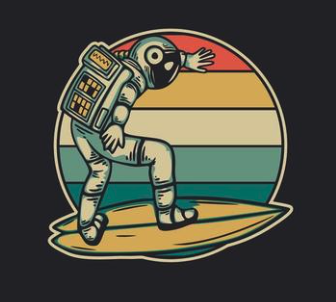
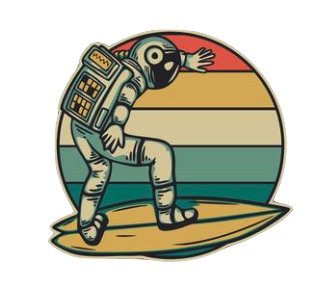
stylized + adjusted color

diff --git a/src/components/pages/Home.js b/src/components/pages/Home.js
@@ -11,6 +11,18 @@ export default function Home() {
       <p>My name is Xander.</p>
       <p>I am a Full Stack Developer.</p>
       <img src= {spacesurfer} alt="spaceman surfing"/>
+
+      <p>Here are links to some of my gitHub projects:</p>
+      <div class="flex">
+        <div class="app-card"> 1 xnd0/Team_Card_Generator_10.3 </div>
+        <div class="app-card"> 2 xnd0/FigJam </div>
+        <div class="app-card"> 3 xnd0/Find-Your-Pour </div>
+        <div class="app-card"> 4 xnd0/No-Rona_App</div>
+        <div class="app-card"> 5 https://github.com/xnd0/Tech_Showdown_21b</div>
+        <div class="app-card"> 6 CmdLine_OrgChart_12.1</div>
+        <div class="app-card"> 7 https://github.com/xnd0/Search_GoogleBooks_Api_21.4</div> 
+      </div>
+      <br></br>
       <div class="vertical-fade-reverse"></div>
     </div>
   );

diff --git a/src/style.css b/src/style.css
@@ -4,15 +4,38 @@
 
 
 body {
-    background-color: #25252A;
+    /* background-color: #25252A; */
+    background-color: #17173b;
 }
 
 
 
 /* -- Classes -- */
 
+.flex {
+    display: flex;
+    flex-wrap: wrap;
+    justify-content: center;
+}
+
+.app-card {
+    min-width: 180px;
+    min-height: 180px;
+    /* max-width: 200px;
+    max-height: 200px; */
+    background-color: rgb(25, 26, 82);
+    margin: 8px;
+    border-radius: 8px;
+    text-overflow: ;
+}
+
 .light-text {
     color: #F2FCFF;
+}
+
+.nav-bg-color {
+    /* background-color:  #08080b; */
+    background-color: rgb(4, 2, 16);
 }
 
 .center {
@@ -41,5 +64,5 @@ body {
 
 .footer {
     background-color: #F2FCFF;
-    color:black;
+    color:rgb(10, 4, 40);
 }

diff --git a/src/components/NavTabs.js b/src/components/NavTabs.js
@@ -5,7 +5,7 @@ import spacesurfer from './pages/space-surfer.png'
 // We assign them to their own variable names
 function NavTabs({ currentPage, handlePageChange }) {
   return (
-    <div class="center">
+    <div class="center nav-bg-color">
       {/* <div class="logo"> */}
         {/* <img class="logo"src={spacesurfer} alt="spaceman surfing" /> */}
       {/* </div> */}

diff --git a/src/components/pages/About.js b/src/components/pages/About.js
@@ -10,6 +10,7 @@ export default function About() {
       <p>
         Front-End · UI/UX · Back-End
         <br></br>
+        MVC  ·  MERN
         <br></br>
         Javascript | ReactJS | Bootstrap | JSX + HTML | HandlebarsJS | CSS | Sequelize | Express | GraphQL | NodeJS | Python | MySQL | MongoDB
       </p>

diff --git a/src/index.css b/src/index.css
@@ -5,7 +5,8 @@ body {
     sans-serif;
   -webkit-font-smoothing: antialiased;
   -moz-osx-font-smoothing: grayscale;
-  background-color: #25252A;
+  background-color: #17173b;
+  background-color: #101029;
 }
 
 code {
